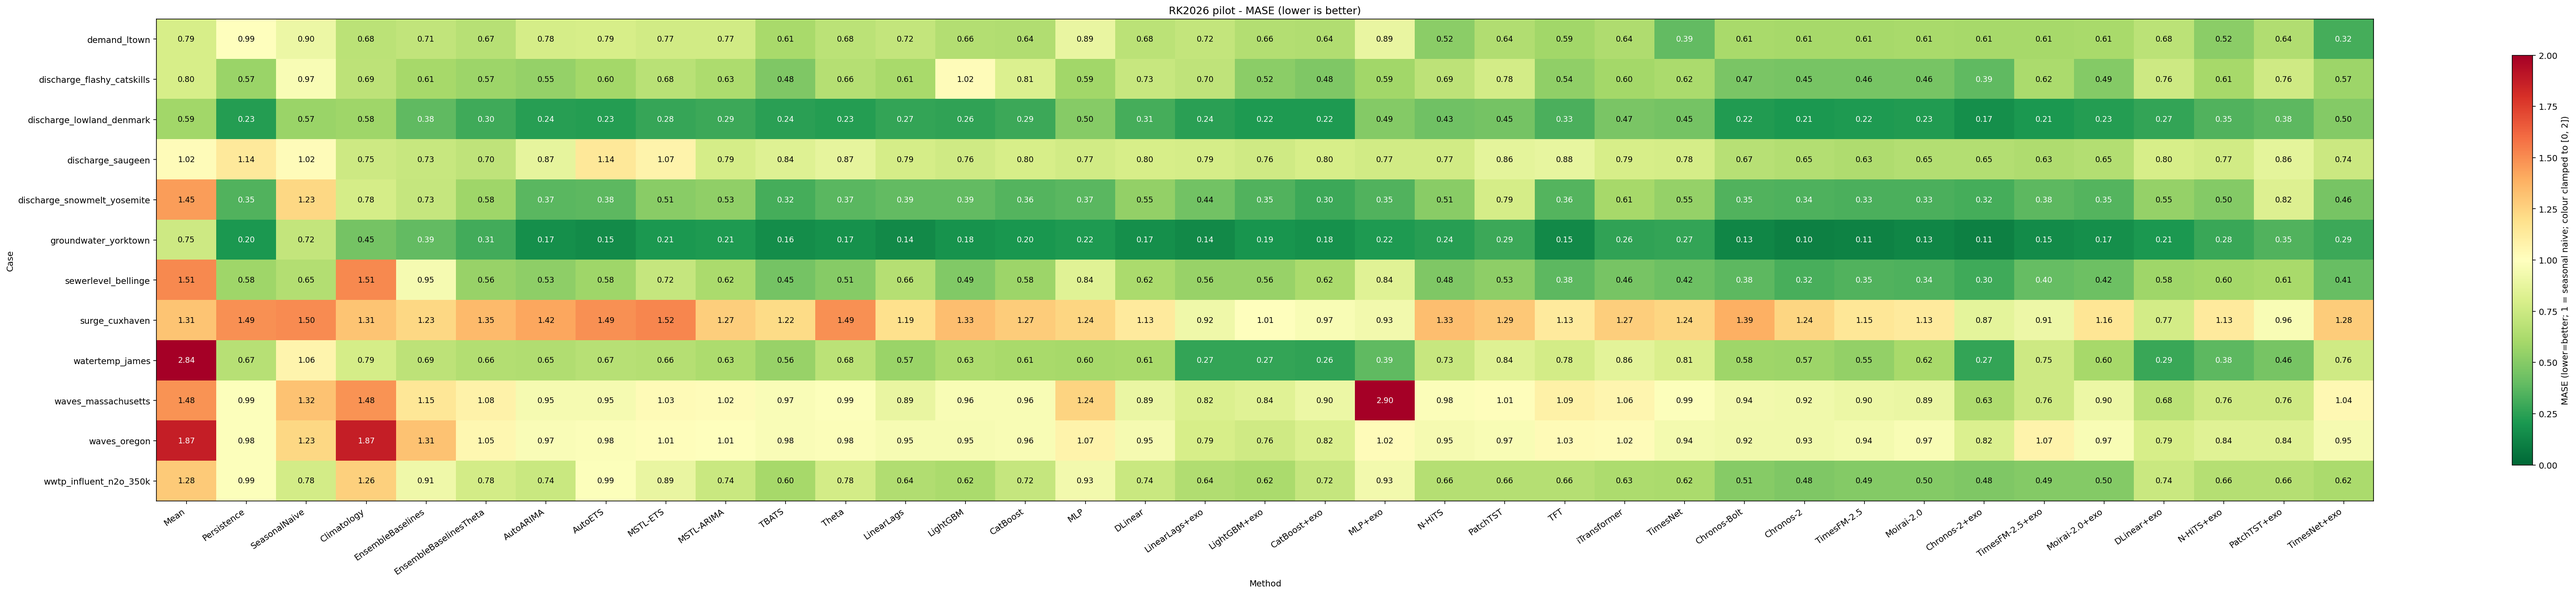
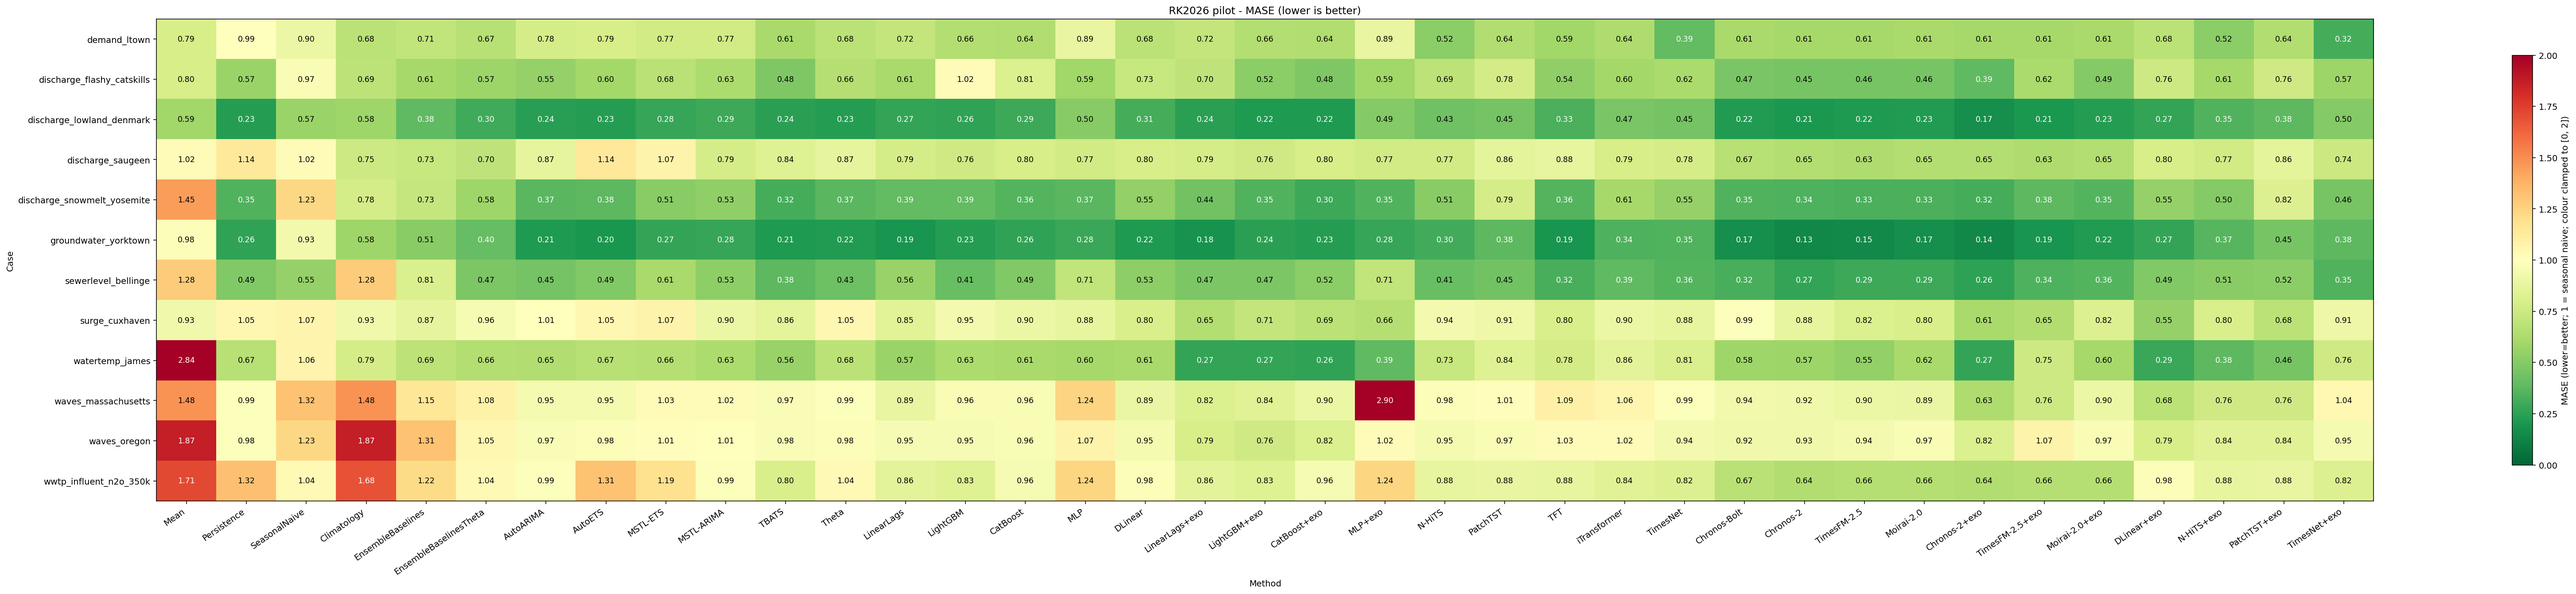
Recompute MASE at merge time from each row's MAE
MASE is MAE over one per-case constant, so a partial written under a different
dominant period carries a stale denominator. The merge now rescales every MASE row
to the case's current pinned period, which makes any future merge self-healing
whatever checkout produced its inputs and needs no model re-fitted.

Republishes the matrix under the pinned periods: groundwater x1.296, WWTP x1.332,
Bellinge x0.846, surge x0.709; the other eight cases unchanged. Every non-MASE
value is byte-identical and no within-row best method moves — the factor is
constant per row.

Changed region(s): [[0.0623, 0.3669, 0.934, 0.5809], [0.0623, 0.7644, 0.934, 0.8561]]

diff --git a/scripts/merge_pilot_results.py b/scripts/merge_pilot_results.py
@@ -7,6 +7,11 @@ Usage (run once every tagged file has been pulled onto one machine):
         docs/results/partial/pilot_metrics_gpu_dl_nf.parquet \\
         docs/results/partial/pilot_metrics_local.parquet
 
+Every `MASE` row is recomputed from its `MAE` row and the case's current pinned
+`dominant_seasonality`, so a partial written under a different pin (or before the field
+existed) does not carry a stale denominator into the published matrix. No model is re-fitted:
+MASE is MAE over one per-case constant. See `_recompute_mase`.
+
 `--drop TAG:METHOD[,METHOD...]` (repeatable) leaves one method out of one input file, for a
 run whose column is known bad — the file stays on disk with its rows intact, and an earlier
 file's version of that method (if any) wins instead. It applies to the tagged file's metrics
@@ -44,6 +49,8 @@ sys.path.insert(0, str(REPO_ROOT / "src"))
 from tsforecastbench.bench.report import write_pilot_artifacts  # noqa: E402
 
 METRICS_KEY = ["case_id", "method", "used_extended_history", "metric"]
+# A metric row's identity minus the metric itself -- pairs a MASE row with its MAE row.
+MAE_KEY = ["case_id", "method", "used_extended_history"]
 SNAPSHOT_KEY = ["case_id", "method", "used_extended_history", "origin_id", "ds"]
 
 
@@ -84,6 +91,51 @@ def _apply_drops(df: pd.DataFrame, tag: str, methods: set[str], label: str) -> p
             raise SystemExit(f"--drop {tag}:{method}: that file has no {method} {label} rows")
         print(f"[merge_pilot_results] dropped {n} {method} {label} row(s) from {tag}")
     return kept
+
+
+def _recompute_mase(results: pd.DataFrame) -> pd.DataFrame:
+    """Rescale every `MASE` row to the case's current pinned dominant period.
+
+    MASE is that row's `MAE` over one per-case constant: the in-sample MAE of a
+    seasonal-naive forecast at `case.dominant_seasonality`, over the pre-test history.
+    Nothing about it depends on the model, so a partial written before the period was
+    pinned (or under a different pin) carries a stale denominator that this corrects
+    without re-fitting anything. Doing it here rather than in a one-off migration keeps
+    every future merge self-healing, whatever checkout produced the inputs.
+
+    The extended-history rows reuse the local scale, matching `eval.rolling`, which
+    computes it once per case and shares it across both fits.
+    """
+    from tsforecastbench.data.registry import get_case
+
+    mase = results["metric"] == "MASE"
+    mae = results[results["metric"] == "MAE"].set_index(MAE_KEY)["value"]
+    for case_id in sorted(results.loc[mase, "case_id"].unique()):
+        case = get_case(case_id)
+        splits = case.split_frame(case.load(curated=True))
+        y = pd.concat([splits["train"], splits["val"]])["y"].to_numpy(dtype=float)
+        s = case.dominant_seasonality
+        if len(y) <= s:
+            raise SystemExit(
+                f"{case_id}: {len(y)} pre-test points cannot support a seasonal-naive "
+                f"scale at dominant_seasonality {s}"
+            )
+        scale = float(pd.Series(abs(y[s:] - y[:-s])).mean())
+        rows = mase & (results["case_id"] == case_id)
+        keys = pd.MultiIndex.from_frame(results.loc[rows, MAE_KEY])
+        missing = ~keys.isin(mae.index)
+        if missing.any():
+            raise SystemExit(f"{case_id}: {int(missing.sum())} MASE row(s) with no MAE row")
+        before = results.loc[rows, "value"].to_numpy(dtype=float)
+        results.loc[rows, "value"] = mae.reindex(keys).to_numpy(dtype=float) / scale
+        after = results.loc[rows, "value"].to_numpy(dtype=float)
+        factor = float((after / before)[0]) if len(before) else 1.0
+        note = "unchanged" if abs(factor - 1.0) < 1e-9 else f"x{factor:.4g}"
+        print(
+            f"[merge_pilot_results] {case_id}: MASE scale {scale:.6g} "
+            f"at period {s} ({len(before)} row(s), {note})"
+        )
+    return results
 
 
 def _merge(frames: list[pd.DataFrame], key: list[str], label: str) -> pd.DataFrame:
@@ -143,7 +195,7 @@ def main(argv: list[str] | None = None) -> int:
         else:
             print(f"[merge_pilot_results] no snapshots at {snap_path}, skipping")
 
-    results = _merge(metrics_frames, METRICS_KEY, "metrics")
+    results = _recompute_mase(_merge(metrics_frames, METRICS_KEY, "metrics"))
     snapshots = [_merge(snapshot_frames, SNAPSHOT_KEY, "snapshot")] if snapshot_frames else []
 
     write_pilot_artifacts(results, snapshots, method_order)
